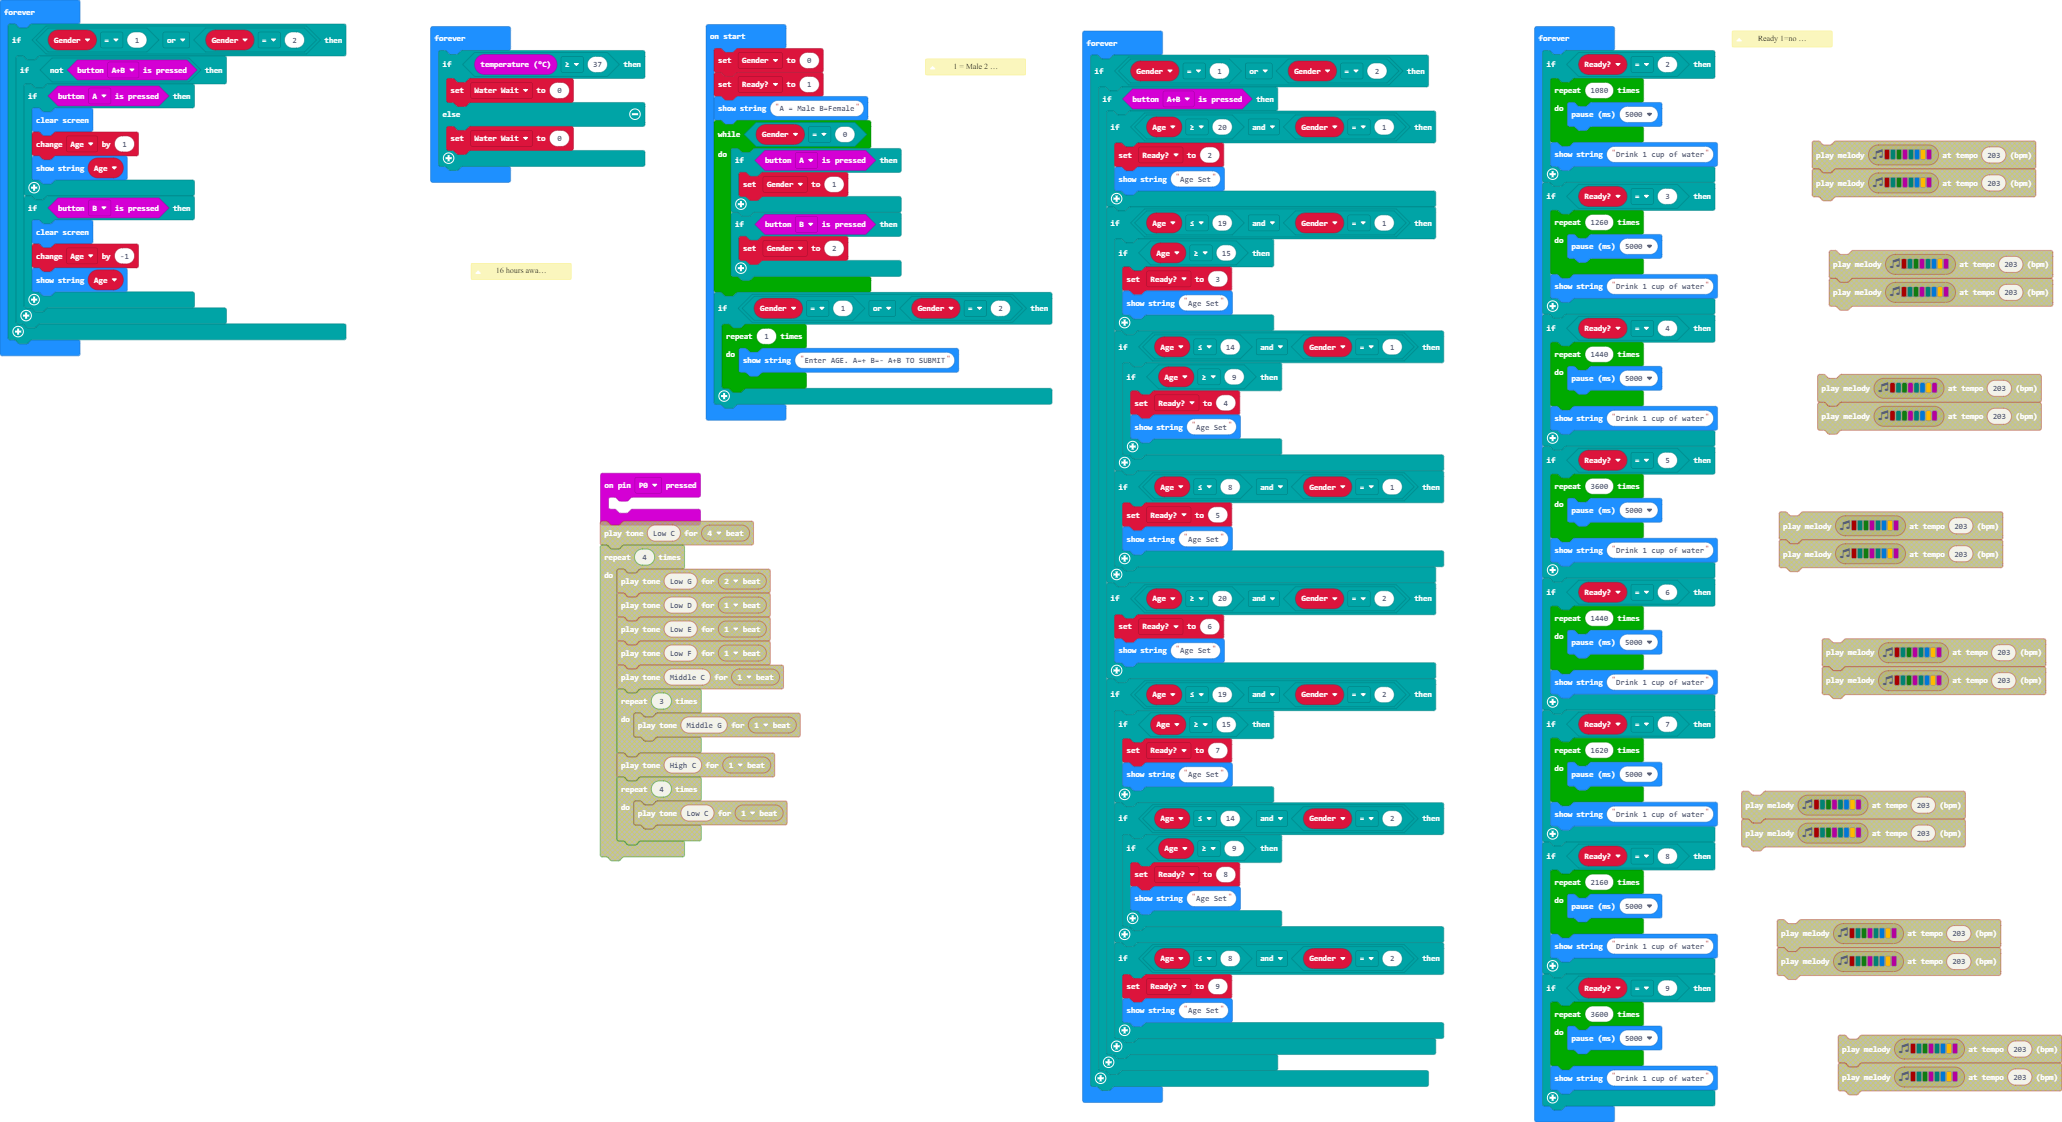
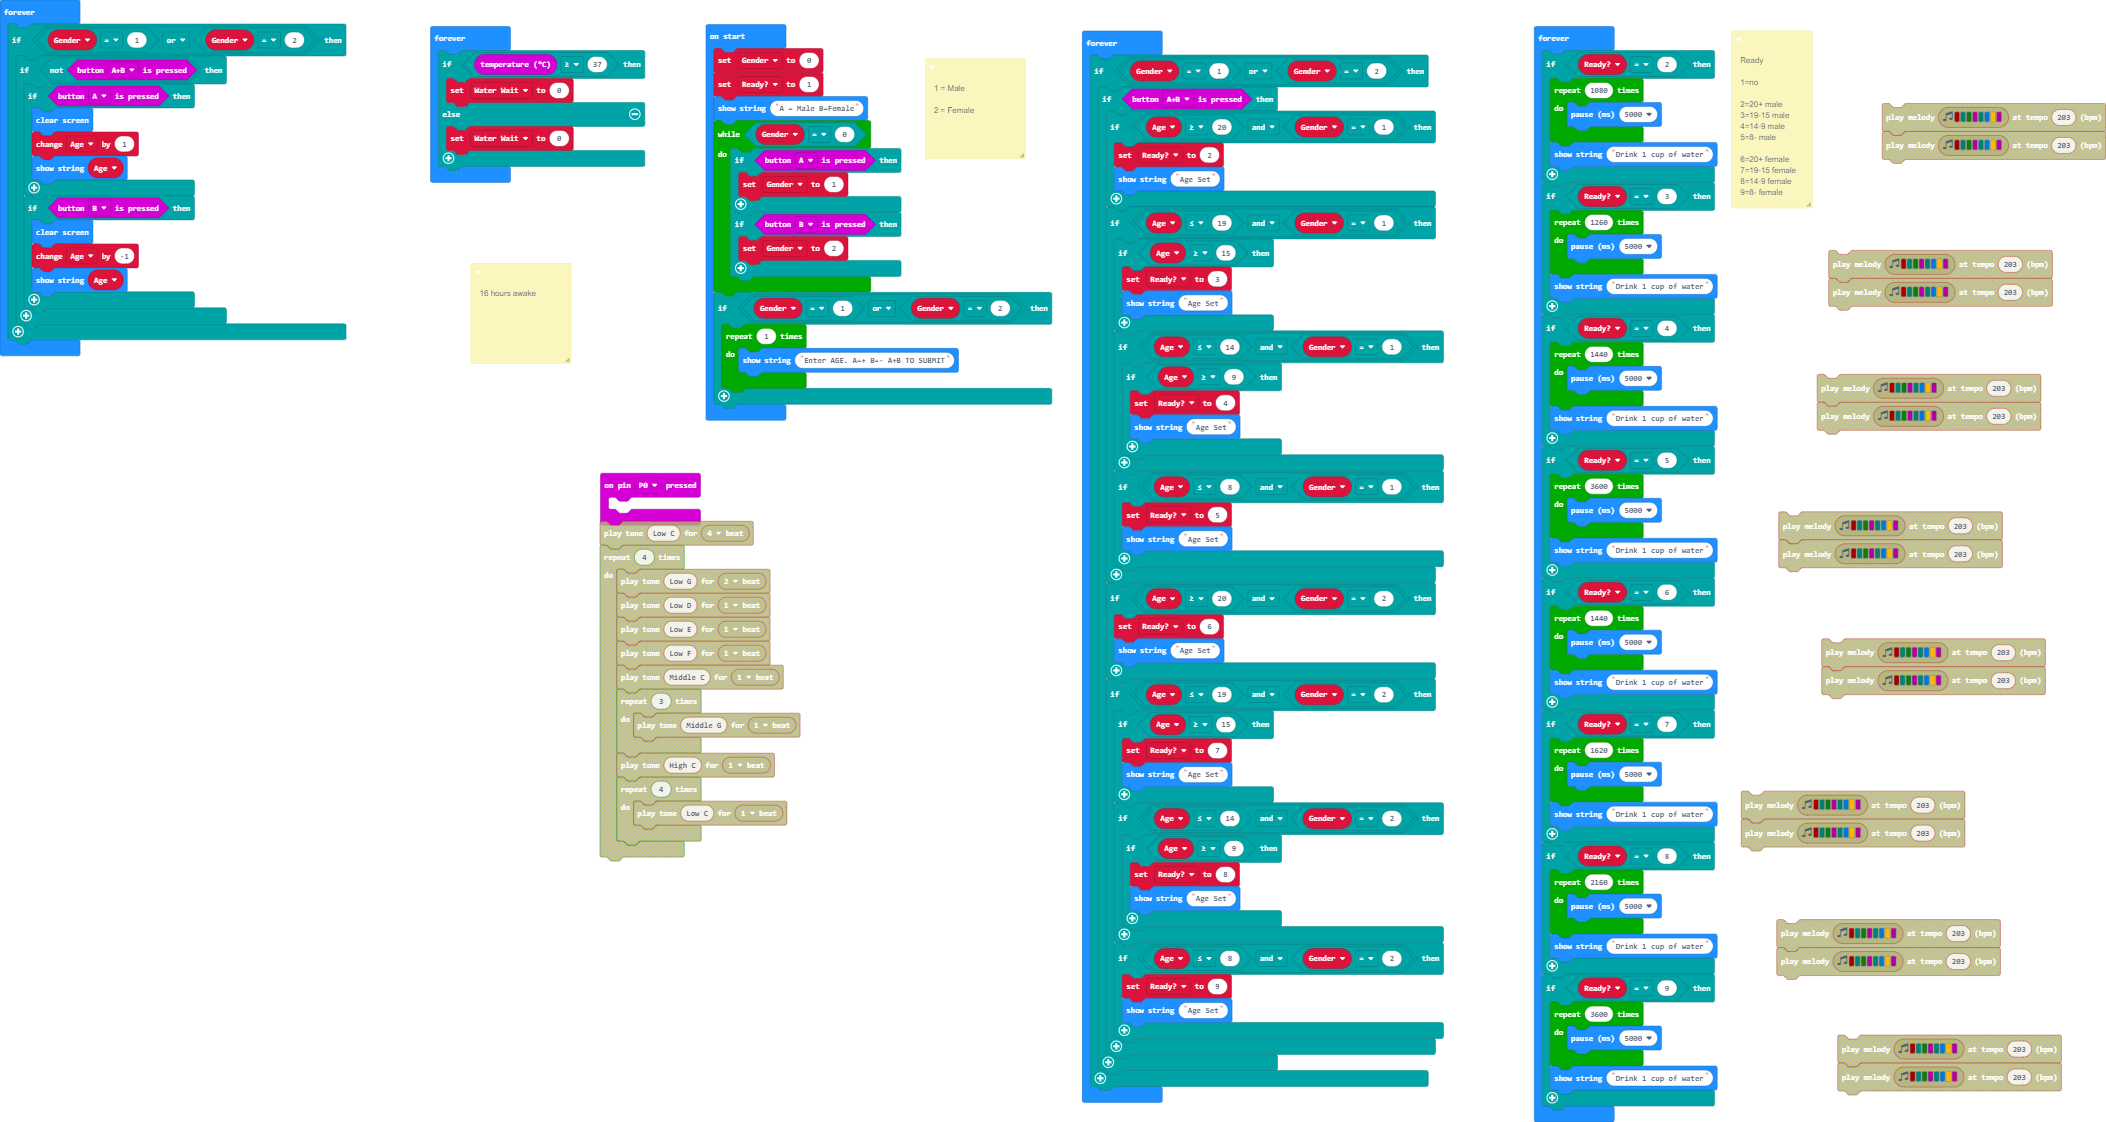
Update main.blocks, main.py

diff --git a/main.py b/main.py
@@ -1,10 +1,5 @@
 """
 
-16 hours awake
-
-"""
-"""
-
 Ready
 
 1=no
@@ -26,6 +21,16 @@ Ready
 9=8- female
 
 """
+"""
+
+16 hours awake
+
+"""
+
+def on_pin_pressed_p0():
+    pass
+input.on_pin_pressed(TouchPin.P0, on_pin_pressed_p0)
+
 """
 
 1 = Male
@@ -107,7 +112,33 @@ def on_forever4():
     if Ready == 2:
         for index2 in range(1080):
             basic.pause(5000)
-        music.play_melody("C5 F G C F E A C ", 203)
-        music.play_melody("C5 F G C F E A C ", 203)
+        basic.show_string("Drink 1 cup of water")
+    if Ready == 3:
+        for index3 in range(1260):
+            basic.pause(5000)
+        basic.show_string("Drink 1 cup of water")
+    if Ready == 4:
+        for index4 in range(1440):
+            basic.pause(5000)
+        basic.show_string("Drink 1 cup of water")
+    if Ready == 5:
+        for index5 in range(3600):
+            basic.pause(5000)
+        basic.show_string("Drink 1 cup of water")
+    if Ready == 6:
+        for index6 in range(1440):
+            basic.pause(5000)
+        basic.show_string("Drink 1 cup of water")
+    if Ready == 7:
+        for index7 in range(1620):
+            basic.pause(5000)
+        basic.show_string("Drink 1 cup of water")
+    if Ready == 8:
+        for index8 in range(2160):
+            basic.pause(5000)
+        basic.show_string("Drink 1 cup of water")
+    if Ready == 9:
+        for index9 in range(3600):
+            basic.pause(5000)
         basic.show_string("Drink 1 cup of water")
 basic.forever(on_forever4)
